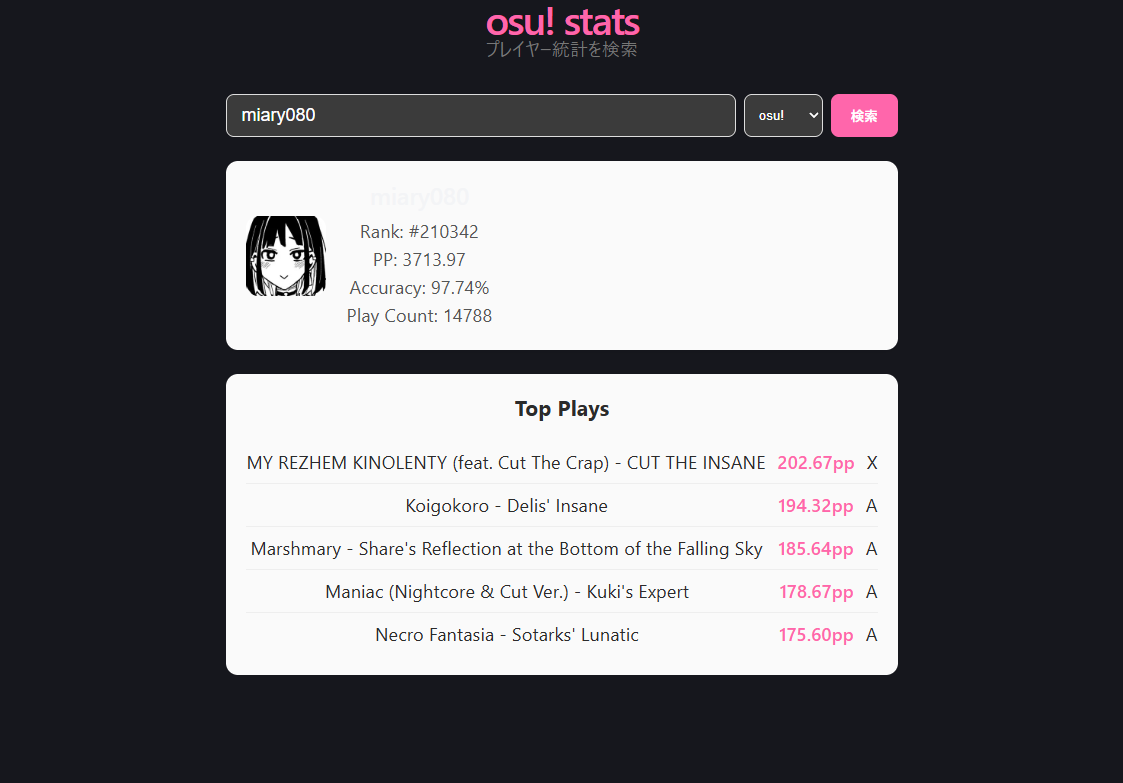
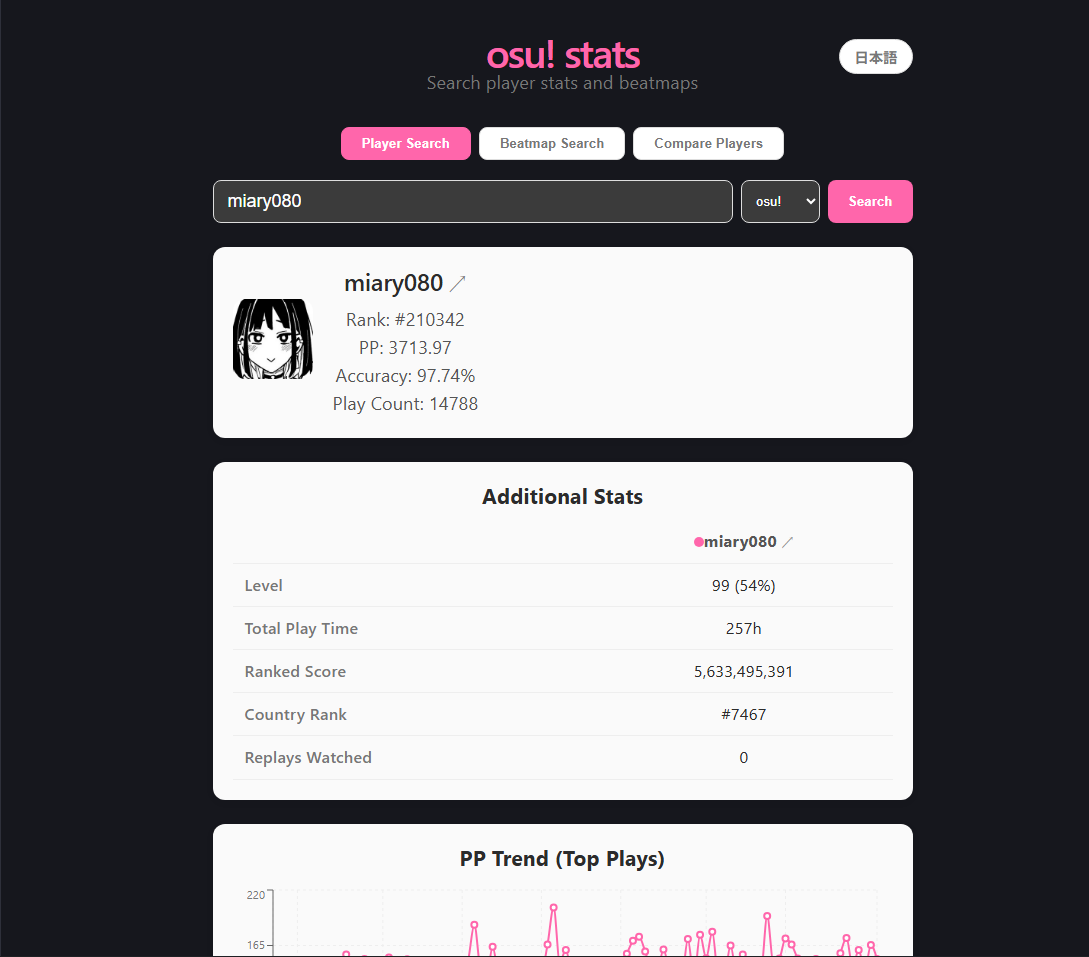
Update README

Changed region(s): [[0.1873, 0.0, 0.843, 1.0], [0.7493, 0.0307, 0.843, 0.092]]

diff --git a/README.en.md b/README.en.md
@@ -6,7 +6,7 @@ A web app that searches and displays osu! player stats, beatmaps, and multi-play
 
 ## Demo 🔗
 https://osu-stats-app.vercel.app/
-![Demo screenshot](img.png)
+![Demo screenshot](imgfile/img.png)
 
 ## Tech Stack
 
